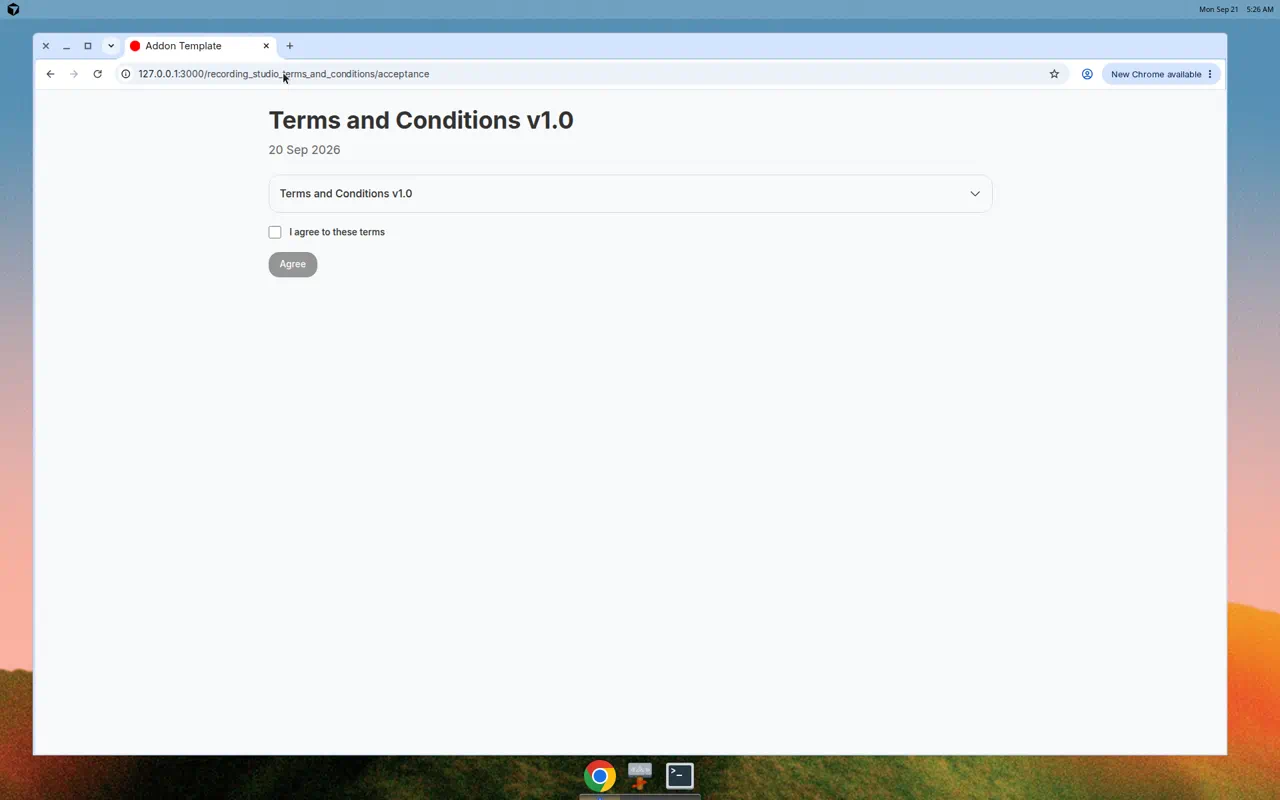
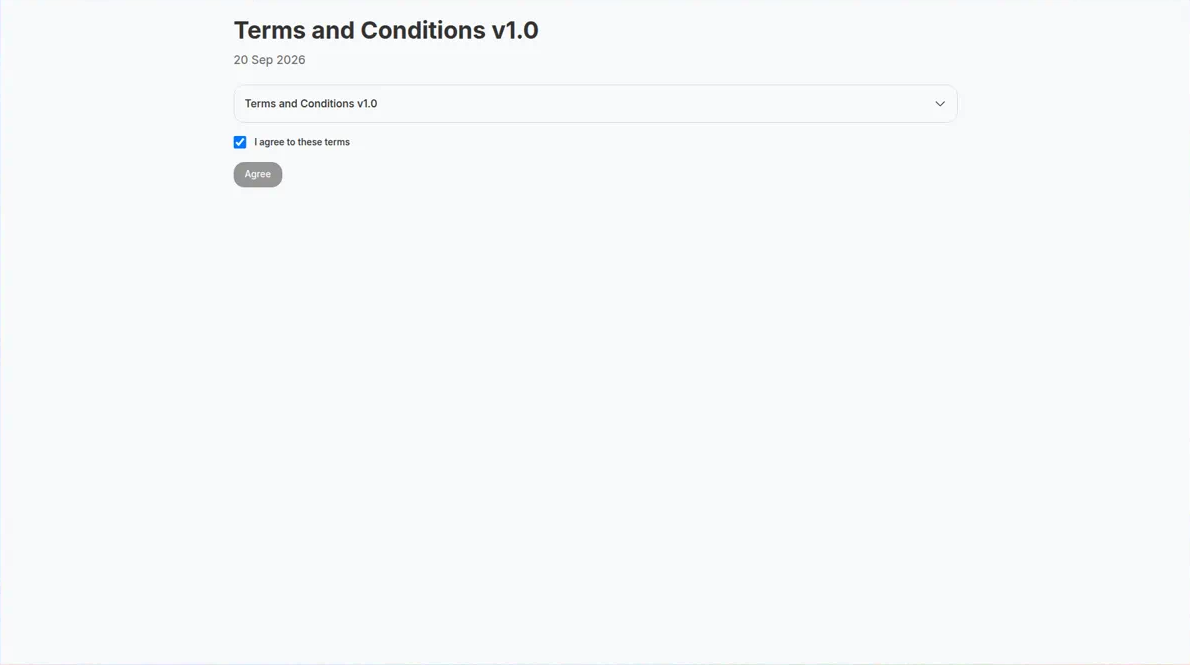
fix(agree): start the Agree checkbox ticked
Default recording_studio_terms_agree_checkbox to checked so Agree and host embeds open pre-ticked.

Changed region(s): [[0.0, 0.0, 1.0, 1.0]]

diff --git a/test/dummy/test/integration/accept_terms_test.rb b/test/dummy/test/integration/accept_terms_test.rb
@@ -21,7 +21,7 @@ class AcceptTermsTest < ActionDispatch::IntegrationTest
     switch_to_workspace(@workspace)
   end
 
-  test "clickwrap shows live terms with an unchecked required checkbox" do
+  test "clickwrap shows live terms with a pre-checked required checkbox" do
     get recording_studio_terms_and_conditions.acceptance_path
 
     assert_response :success
@@ -38,7 +38,7 @@ class AcceptTermsTest < ActionDispatch::IntegrationTest
     refute_includes response.body, "Read the full terms"
     assert_select "div.py-5"
     assert_select "input[type=checkbox][name=agreed][required]"
-    assert_select "input[type=checkbox][name=agreed][checked]", count: 0
+    assert_select "input[type=checkbox][name=agreed][checked]", count: 1
     assert_includes response.body, "Agree"
     assert_select "[data-controller='recording-studio-terms-and-conditions--scroll-to-end']", count: 1
     assert_select "[data-recording-studio-terms-and-conditions--scroll-to-end-target='end']", count: 1

diff --git a/test/dummy/test/integration/agree_helper_test.rb b/test/dummy/test/integration/agree_helper_test.rb
@@ -43,6 +43,7 @@ class AgreeHelperTest < ActionDispatch::IntegrationTest
     refute_includes response.body, "On a page"
     refute_includes response.body, "Inside a form"
     assert_select "input[type=checkbox][name=agreed][required]", count: 1
+    assert_select "input[type=checkbox][name=agreed][checked]", count: 1
     assert_select "input[type=hidden][name=source][value=clickwrap]", count: 1
     assert_select "input[type=hidden][name=source][value=continue_notice]", count: 1
     assert_select "button", text: "Agree", count: 0

diff --git a/app/helpers/recording_studio_terms_and_conditions/agree_helper.rb b/app/helpers/recording_studio_terms_and_conditions/agree_helper.rb
@@ -56,7 +56,7 @@ module RecordingStudioTermsAndConditions
       {
         name: "agreed",
         value: "1",
-        checked: false,
+        checked: true,
         required: true
       }
     end

diff --git a/README.md b/README.md
@@ -16,7 +16,7 @@ This addon ships the **data shape, domain helpers, clickwrap Agree screen, embed
 - **Terms** recordable (`RecordingStudioTermsAndConditions::Terms`, product label `"Terms"`) with Publishable opted in on the type
 - **Acceptance** append-only table for clickwrap receipts (not a recordable). New rows store a SHA-256 body digest of the live copy at accept time
 - **Domain helpers** on `RecordingStudioTermsAndConditions`: `current_published_for`, `pending_published_list` / `pending_published_for`, `accepted?`, `accept!`, `requires_acceptance?`, `reaccepting?`
-- **Agree screen** for the current published Terms (unchecked checkbox, gated Agree, `accept!`). No PageNav. Live copy sits in a Flatpack Collapse (closed by default) wrapping `FlatPack::Content`. Optional `require_scroll_to_end` keeps Agree disabled until a sentinel after the live body is visible (default off). If IntersectionObserver is missing, Agree stays enabled. The calendar date stays in the heading, not a relative “hours ago”
+- **Agree screen** for the current published Terms (pre-checked checkbox, gated Agree, `accept!`). No PageNav. Live copy sits in a Flatpack Collapse (closed by default) wrapping `FlatPack::Content`. Optional `require_scroll_to_end` keeps Agree disabled until a sentinel after the live body is visible (default off). If IntersectionObserver is missing, Agree stays enabled. The calendar date stays in the heading, not a relative “hours ago”
 - **Host helper** `recording_studio_terms_agree` / `recording_studio_terms_agree(inside_form: true)` — Flatpack checkbox only, HTML `required`. Pass `link_terms: true` to turn the word terms into a link to the public URL. On submit, call `accept!` for the pending live version
 - **Host helper** `recording_studio_terms_continue_notice` — “By continuing, you agree to [app name]'s Terms & Conditions”. The linked words open a Flatpack Modal with `FlatPack::Content` inside. On the host POST, call `accept!` with `{ "source" => "continue_notice" }`. Do not replace the checkbox helper
 - **Gate** on the host `ApplicationController`: redirects to Agree until the live version is accepted, and again after a new publish

diff --git a/CHANGELOG.md b/CHANGELOG.md
@@ -14,7 +14,7 @@ and this project adheres to [Semantic Versioning](https://semver.org/spec/v2.0.0
 - Host helper `recording_studio_terms_continue_notice` next to the checkbox helper. Copy is “By continuing, you agree to [app name]'s Terms & Conditions”. The linked words open a Flatpack Modal whose body is still `FlatPack::Content`. Host POST calls `accept!` with provenance `source` `continue_notice`. Dummy `/agree_helper` posts both helpers and clears the gate.
 
 ### Changed
-- Agree keeps the post-auth gate. It no longer sets PageNav. Live copy sits in a Flatpack Collapse (closed by default) wrapping `FlatPack::Content`. The Collapse title is the live Terms heading. Re-accept Alert stays above. Checkbox and Agree stay at the bottom. Optional scroll-to-end is unchanged.
+- Agree keeps the post-auth gate. It no longer sets PageNav. Live copy sits in a Flatpack Collapse (closed by default) wrapping `FlatPack::Content`. The Collapse title is the live Terms heading. Re-accept Alert stays above. The checkbox starts ticked. Agree stays at the bottom. Optional scroll-to-end is unchanged.
 
 ### Upgrade notes (0.5.0 → 0.6.0)
 - Set `config.app_name` in the host initializer if you want a fixed product name. Leave it blank to use Site Settings when that gem is loaded. No schema change.

diff --git a/docs/demo/MANIFEST.md b/docs/demo/MANIFEST.md
@@ -8,7 +8,7 @@ Stills retaken 2026-09-21 after continue-notice Modal and Agree Collapse restyle
 | `tnc-clickwrap-demo.mp4.b64` | Full base64 of the mp4 (over GitHub contents 1MB — use the parts) |
 | `tnc-clickwrap-demo.mp4.b64.part1` / `.part2` | Split base64, each under 800_000 chars |
 | `tnc-clickwrap-demo.mp4.b64.manifest` | original_bytes, sha256, ordered part paths |
-| `tnc-agree.png` | Agree after C3: no PageNav, closed Collapse titled with the live Terms heading, checkbox and Agree |
+| `tnc-agree.png` | Agree: no PageNav, closed Collapse titled with the live Terms heading, pre-checked checkbox and Agree |
 | `tnc-agree.png.b64` | Base64 of the Agree still |
 | `tnc-agree-helper.png` | Dummy `/agree_helper` checkbox form plus continue notice |
 | `tnc-agree-helper.png.b64` | Base64 of the helper still |
